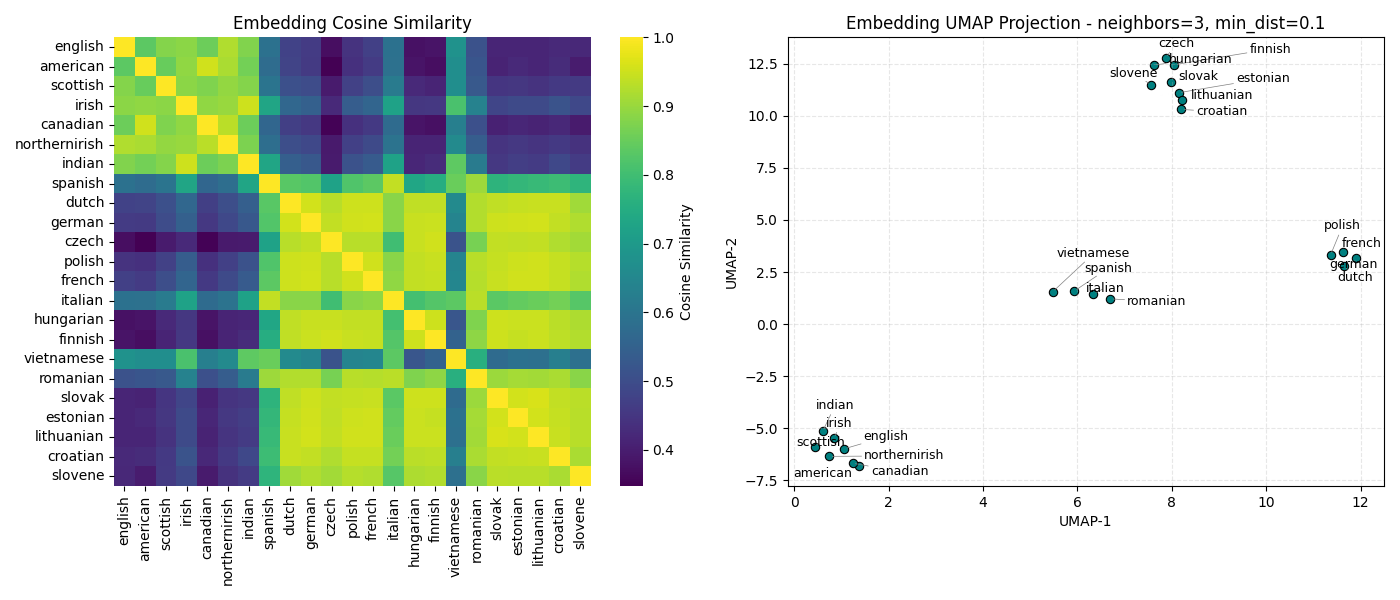
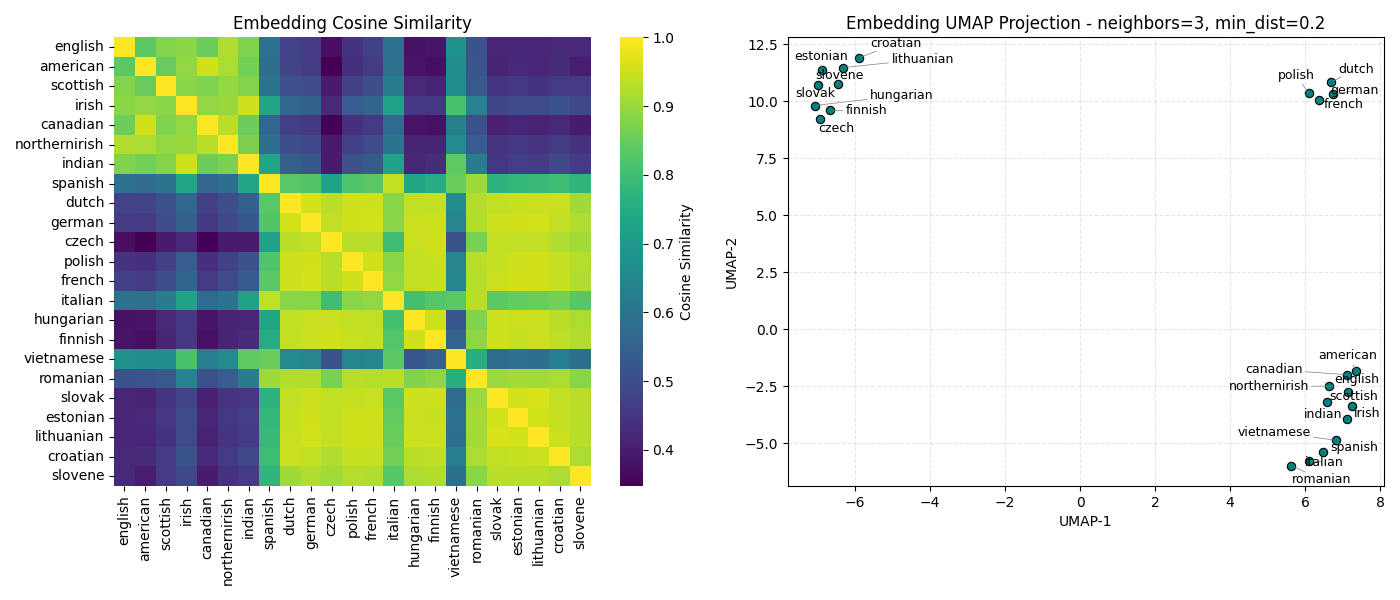
update embedding visualization assets and adjust UMAP parameters

diff --git a/src/utils/visualize.py b/src/utils/visualize.py
@@ -29,9 +29,9 @@ def visualize_embedding_similarity(embeddings, labels, title, ax):
 def visualize_umap_embeddings(embeddings, labels, title, ax, **kwargs):
     """Reduce embeddings to 2D with UMAP (cosine) and scatter-plot with text labels."""
     reducer = umap.UMAP(
-        n_neighbors=kwargs.get("n_neighbors", 5),
+        n_neighbors=kwargs.get("n_neighbors", 3),
         n_components=2,
-        min_dist=kwargs.get("min_dist", 0.0),
+        min_dist=kwargs.get("min_dist", 0.2),
         metric="cosine",
         random_state=42,
         n_epochs=500,
